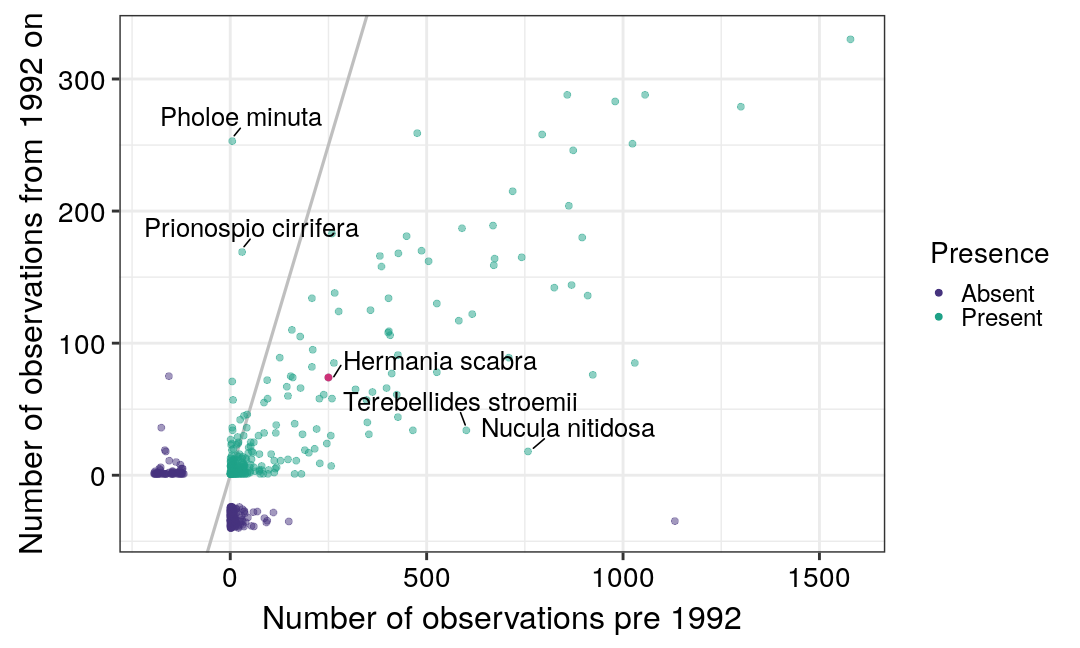
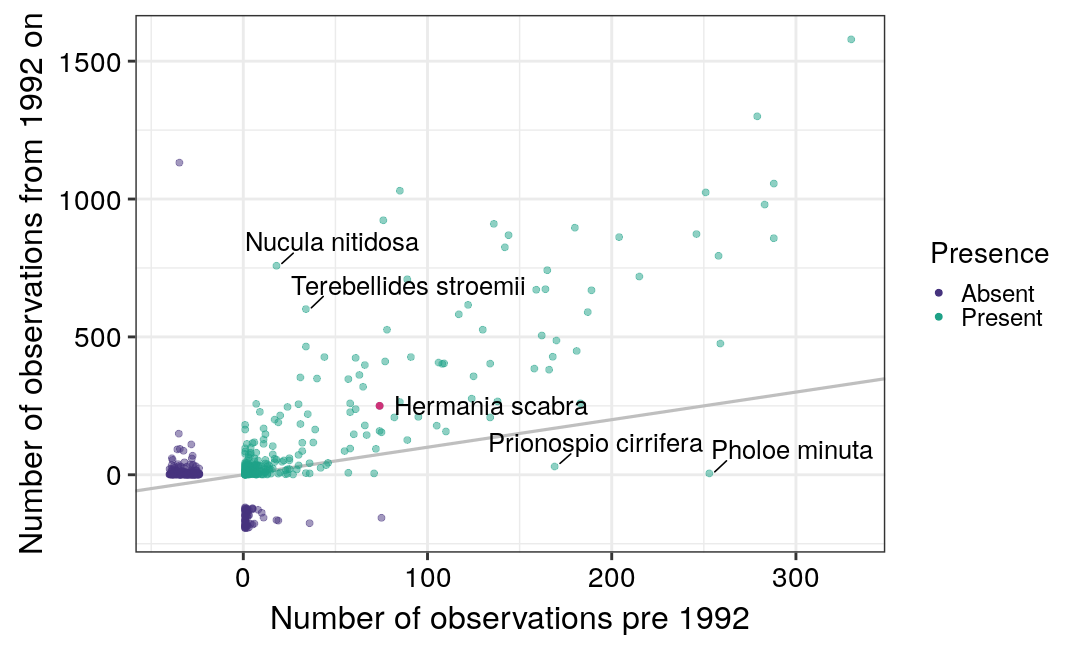
Bugfix - switched pre and post, changed input file format

diff --git a/Cowtan_naniar_annotations/talk/static/hack_data.html b/Cowtan_naniar_annotations/talk/static/hack_data.html
@@ -204,52 +204,6 @@ $(document).ready(function () {
 <pre><code>## The following objects are masked from 'package:base':
 ## 
 ##     intersect, setdiff, setequal, union</code></pre>
-<pre><code>##  [1] &quot;country&quot;                  &quot;date_year&quot;               
-##  [3] &quot;scientificNameID&quot;         &quot;year&quot;                    
-##  [5] &quot;scientificName&quot;           &quot;superfamilyid&quot;           
-##  [7] &quot;individualCount&quot;          &quot;dropped&quot;                 
-##  [9] &quot;aphiaID&quot;                  &quot;fieldNumber&quot;             
-## [11] &quot;decimalLatitude&quot;          &quot;subclassid&quot;              
-## [13] &quot;familyid&quot;                 &quot;phylumid&quot;                
-## [15] &quot;catalogNumber&quot;            &quot;occurrenceStatus&quot;        
-## [17] &quot;basisOfRecord&quot;            &quot;maximumDepthInMeters&quot;    
-## [19] &quot;modified&quot;                 &quot;id&quot;                      
-## [21] &quot;day&quot;                      &quot;order&quot;                   
-## [23] &quot;dataset_id&quot;               &quot;locality&quot;                
-## [25] &quot;decimalLongitude&quot;         &quot;date_end&quot;                
-## [27] &quot;collectionCode&quot;           &quot;speciesid&quot;               
-## [29] &quot;occurrenceID&quot;             &quot;superfamily&quot;             
-## [31] &quot;date_start&quot;               &quot;month&quot;                   
-## [33] &quot;genus&quot;                    &quot;samplingProtocol&quot;        
-## [35] &quot;eventDate&quot;                &quot;superorder&quot;              
-## [37] &quot;scientificNameAuthorship&quot; &quot;absence&quot;                 
-## [39] &quot;samplingEffort&quot;           &quot;superorderid&quot;            
-## [41] &quot;genusid&quot;                  &quot;originalScientificName&quot;  
-## [43] &quot;marine&quot;                   &quot;minimumDepthInMeters&quot;    
-## [45] &quot;infraclassid&quot;             &quot;institutionCode&quot;         
-## [47] &quot;date_mid&quot;                 &quot;infraclass&quot;              
-## [49] &quot;class&quot;                    &quot;orderid&quot;                 
-## [51] &quot;geodeticDatum&quot;            &quot;kingdom&quot;                 
-## [53] &quot;classid&quot;                  &quot;recordedBy&quot;              
-## [55] &quot;phylum&quot;                   &quot;species&quot;                 
-## [57] &quot;subclass&quot;                 &quot;datasetID&quot;               
-## [59] &quot;occurrenceRemarks&quot;        &quot;family&quot;                  
-## [61] &quot;kingdomid&quot;                &quot;node_id&quot;                 
-## [63] &quot;terrestrial&quot;              &quot;suborderid&quot;              
-## [65] &quot;brackish&quot;                 &quot;subfamily&quot;               
-## [67] &quot;subphylumid&quot;              &quot;subfamilyid&quot;             
-## [69] &quot;suborder&quot;                 &quot;subphylum&quot;               
-## [71] &quot;eventTime&quot;                &quot;superclass&quot;              
-## [73] &quot;superclassid&quot;             &quot;parvorder&quot;               
-## [75] &quot;infraorderid&quot;             &quot;infraorder&quot;              
-## [77] &quot;parvorderid&quot;              &quot;subgenus&quot;                
-## [79] &quot;subgenusid&quot;               &quot;tribeid&quot;                 
-## [81] &quot;tribe&quot;                    &quot;subterclassid&quot;           
-## [83] &quot;subterclass&quot;              &quot;subspecies&quot;              
-## [85] &quot;subspeciesid&quot;             &quot;section&quot;                 
-## [87] &quot;subsection&quot;               &quot;sectionid&quot;               
-## [89] &quot;subsectionid&quot;             &quot;subtribeid&quot;              
-## [91] &quot;subtribe&quot;                 &quot;depth&quot;</code></pre>
 
 
 

diff --git a/Cowtan_naniar_annotations/talk/static/Cowtan_RLadies_Newcastle_20190702.html b/Cowtan_naniar_annotations/talk/static/Cowtan_RLadies_Newcastle_20190702.html
@@ -172,8 +172,6 @@ class: inverse, center, middle
 # Species count by year
 
 
-
-
 ```r
 shark_df %&gt;%
   # Just one instance of each species per year
@@ -303,8 +301,7 @@ shark_label_gg &lt;- shark_missing_gg +
 *      aes(label = scientificName),
 *      # Avoids ambiguity or overlapping with manual labels 
 *      nudge_x = 22, 
-*      nudge_y = ifelse((shark_label_df$scientificName == species |
-*                        shark_label_df$pre &gt; 500), 0, 15), 
+*      nudge_y = ifelse(shark_label_df$scientificName == species, 0, 15), 
 *      # Point padding stops lines obscuring points
 *      size = 9, segment.size = 0.75, point.padding = 0.75)
 ```
@@ -325,17 +322,19 @@ for (i in 1:nrow(shark_absent_df)) {
       # Add custom annotation at calculated location
       # Using the length of the string as annotate puts the middle
       # of the text at the given location
-*     annotate("text", x = -300 +
-*               (nchar(shark_absent_df[i,]$scientificName) * 18),
-*               y = shark_absent_df[i,]$post + 15, size = 9,
+*     annotate("text", 
+*               x = (nchar(shark_absent_df[i,]$scientificName) * 2) - 12,
+*               y = shark_absent_df[i,]$post + 70,
+*               size = 9,
 *               label = shark_absent_df[i,]$scientificName)
   } else {
     # Went extinct
     shark_label_gg &lt;- shark_label_gg +
       # Add custom annotation at calculated location
-*     annotate("text", x = shark_absent_df[i,]$pre - 80 +
-*               (nchar(shark_absent_df[i,]$scientificName) * 18), 
-*               y = -15, size = 9,
+*     annotate("text", x = shark_absent_df[i,]$pre +
+*               (nchar(shark_absent_df[i,]$scientificName) * 2) + 25, 
+*               y = ifelse(shark_absent_df[i,]$pre &lt; 50, -210, -110), 
+*               size = 9,
 *               label = shark_absent_df[i,]$scientificName) 
   }
 }
@@ -358,7 +357,7 @@ Those `NA`s are graphed as though they were negative values.
 shark_all_labels_df &lt;- shark_absent_df %&gt;%
   # Replace all the NA values in the pre and post columns
   # This will be a bit approximate because of jitter
-  tidyr::replace_na(list(pre = -175, post = -25)) %&gt;%
+  tidyr::replace_na(list(pre = -35, post = -175)) %&gt;%
   bind_rows(shark_label_df)
 ```
 
